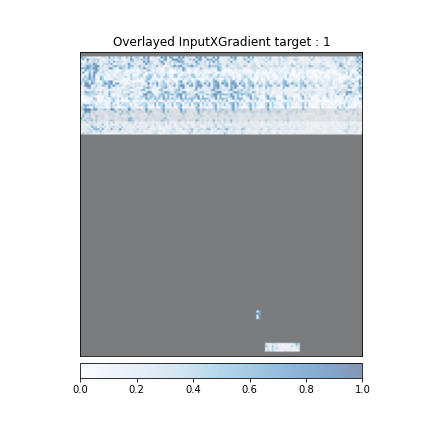
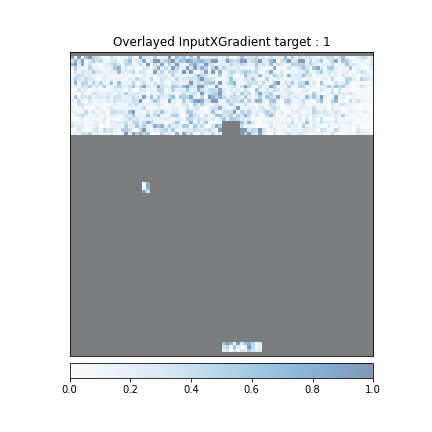
add code

diff --git a/src/rlxai/xai/xai.py b/src/rlxai/xai/xai.py
@@ -142,7 +142,9 @@ class ImageXAI(object):
         attr_ig, delta = self.attribute_image_features(
             self.integrated_gradients, input, baselines=input * 0, return_convergence_delta=True
         )
-        self.attr_ig = np.transpose(attr_ig.squeeze().cpu().detach().numpy(), (1, 2, 0))
+        if attr_ig.ndim == 4:
+            attr_ig = attr_ig.squeeze(0)
+        self.attr_ig = np.transpose(attr_ig.cpu().detach().numpy(), (1, 2, 0))
         print("Approximation delta: ", abs(delta))
 
     def run_GradientShap(
@@ -335,8 +337,8 @@ class ImageXAI(object):
             "custom blue", [(0, "#ffffff"), (0.25, "#000000"), (1, "#000000")], N=256
         )
         plt_fig, _ = viz.visualize_image_attr(
-            np.transpose(self.attributions_ig.squeeze().cpu().detach().numpy(), (1, 2, 0)),
-            np.transpose(self.transform_input(self.input_dict).cpu().detach().numpy(), (1, 2, 0)),
+            np.transpose(self.attributions_ig.squeeze(0).cpu().detach().numpy(), (1, 2, 0)),
+            np.transpose(self.transform_input(self.input_dict).squeeze(0).cpu().detach().numpy(), (1, 2, 0)),
             method="heat_map",
             cmap=default_cmap,
             show_colorbar=True,
@@ -359,10 +361,12 @@ class ImageXAI(object):
         attributions_ig_nt = noise_tunnel.attribute(
             input, nt_samples=10, nt_type="smoothgrad_sq", target=self.pred_class_idx
         )
+        if attributions_ig_nt.ndim == 4:
+            attributions_ig_nt = attributions_ig_nt.squeeze(0)
 
         plt_fig, _ = viz.visualize_image_attr_multiple(
-            np.transpose(attributions_ig_nt.squeeze().cpu().detach().numpy(), (1, 2, 0)),
-            np.transpose(input.squeeze().cpu().detach().numpy(), (1, 2, 0)),
+            np.transpose(attributions_ig_nt.cpu().detach().numpy(), (1, 2, 0)),
+            np.transpose(input.squeeze(0).cpu().detach().numpy(), (1, 2, 0)),
             ["original_image", "heat_map"],
             ["all", "positive"],
             cmap=default_cmap,
@@ -388,9 +392,11 @@ class ImageXAI(object):
         attributions_gs = self.gradient_shap.attribute(
             input, n_samples=50, stdevs=0.0001, baselines=rand_img_dist, target=self.pred_class_idx
         )
+        if attributions_gs.ndim == 4:
+            attributions_gs = attributions_gs.squeeze(0)
         plt_fig, _ = viz.visualize_image_attr_multiple(
-            np.transpose(attributions_gs.squeeze().cpu().detach().numpy(), (1, 2, 0)),
-            np.transpose(input.squeeze().cpu().detach().numpy(), (1, 2, 0)),
+            np.transpose(attributions_gs.cpu().detach().numpy(), (1, 2, 0)),
+            np.transpose(input.squeeze(0).cpu().detach().numpy(), (1, 2, 0)),
             ["original_image", "heat_map"],
             ["all", "absolute_value"],
             cmap=default_cmap,
@@ -412,8 +418,8 @@ class ImageXAI(object):
             baselines=0,
         )
         plt_fig, _ = viz.visualize_image_attr_multiple(
-            np.transpose(attributions_occ.squeeze().cpu().detach().numpy(), (1, 2, 0)),
-            np.transpose(input.squeeze().cpu().detach().numpy(), (1, 2, 0)),
+            np.transpose(attributions_occ.squeeze(0).cpu().detach().numpy(), (1, 2, 0)),
+            np.transpose(input.squeeze(0).cpu().detach().numpy(), (1, 2, 0)),
             ["original_image", "heat_map"],
             ["all", "positive"],
             show_colorbar=True,
@@ -446,7 +452,7 @@ class ImageXAI(object):
         print("Predicted:", self.pred_class_idx, " Probability:", self.probs)
         saliency = Saliency(self.model)
         grads = saliency.attribute(input, target=self.real_class_idx)
-        grads = np.transpose(grads.squeeze().cpu().detach().numpy(), (1, 2, 0))
+        grads = np.transpose(grads.squeeze(0).cpu().detach().numpy(), (1, 2, 0))
         nt = NoiseTunnel(self.integrated_gradients)
         attr_ig_nt = self.attribute_image_features(
             nt, input, baselines=input * 0, nt_type="smoothgrad_sq", nt_samples=100, stdevs=0.2

diff --git a/src/rlxai/agent/model.py b/src/rlxai/agent/model.py
@@ -1,0 +1,31 @@
+import torch
+import torch.nn as nn
+import torch.nn.functional as F
+
+
+class NeuralNetwork(nn.Module):
+    def __init__(self, number_of_actions):
+        super(NeuralNetwork, self).__init__()
+
+        self.number_of_actions = number_of_actions
+        self.gamma = 0.99
+        self.final_epsilon = 0.05
+        self.initial_epsilon = 0.1
+        self.number_of_iterations = 2000000
+        self.replay_memory_size = 750000
+        self.minibatch_size = 32
+        self.explore = 3000000  # Timesteps to go from INITIAL_EPSILON to FINAL_EPSILON
+
+        self.conv1 = nn.Conv2d(4, 32, kernel_size=8, stride=4)
+        self.conv2 = nn.Conv2d(32, 64, 4, 2)
+        self.conv3 = nn.Conv2d(64, 64, 3, 1)
+        self.fc4 = nn.Linear(7 * 7 * 64, 512)
+        self.fc5 = nn.Linear(512, self.number_of_actions)
+
+    def forward(self, x):
+        x = F.relu(self.conv1(x))
+        x = F.relu(self.conv2(x))
+        x = F.relu(self.conv3(x))
+        # make sure input tensor is flattened
+        x = F.relu(self.fc4(x.view(x.size(0), -1)))
+        return self.fc5(x)
